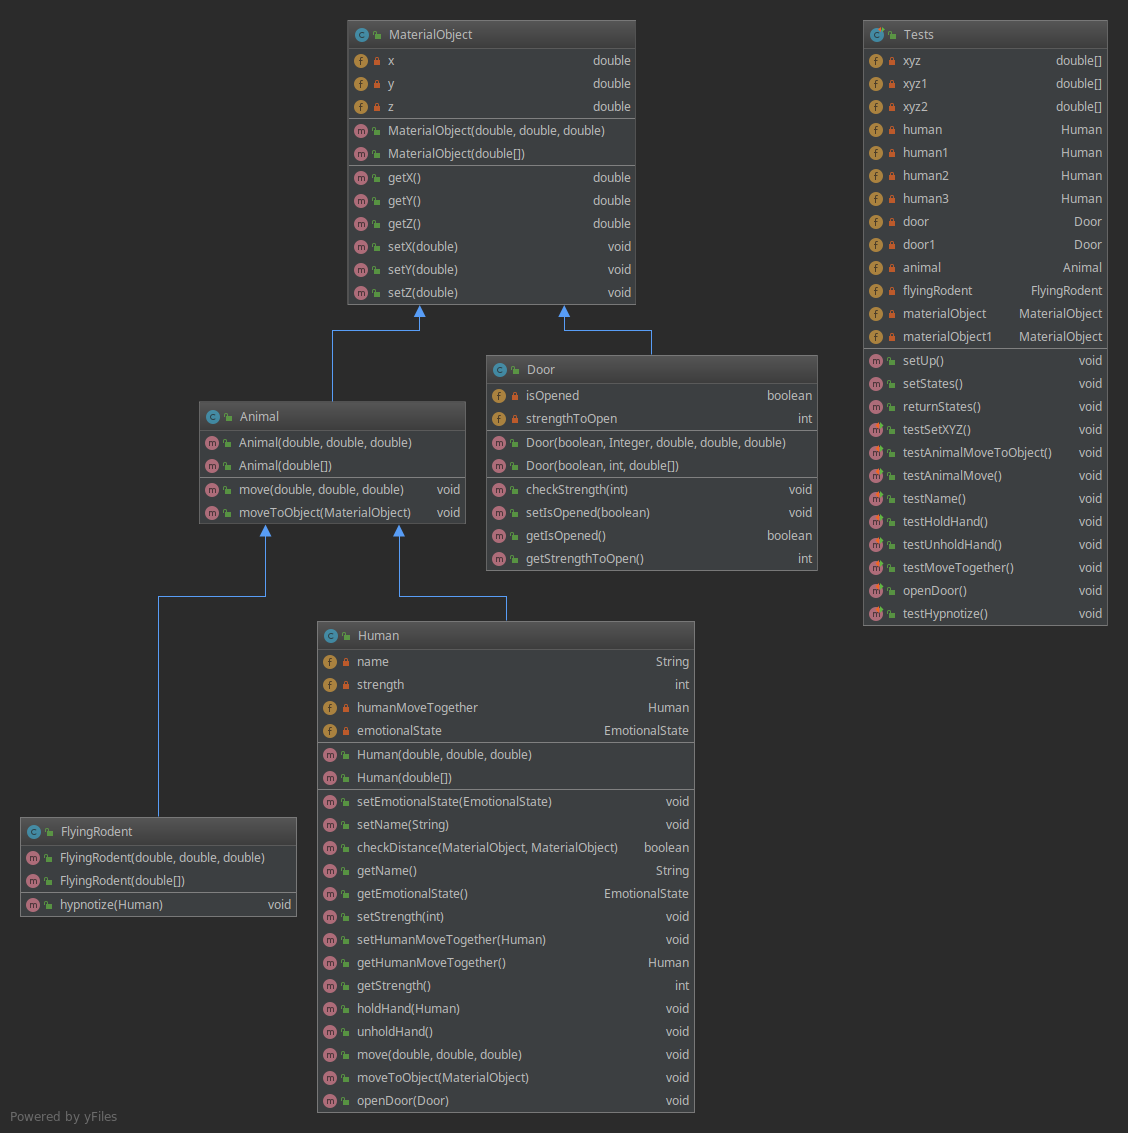
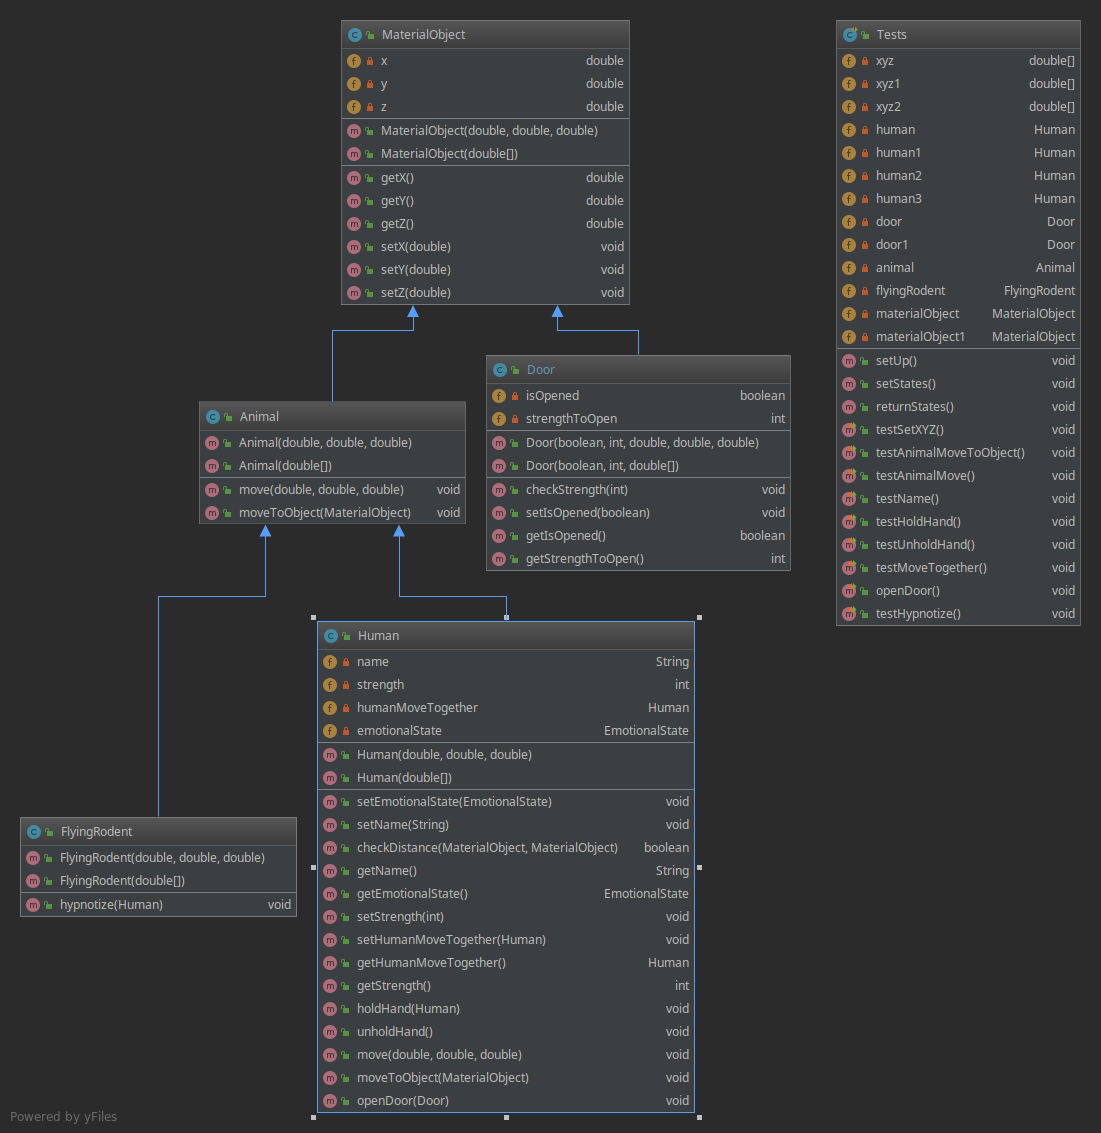
New Diagram, Integer to int in Door

diff --git a/Task3/src/Door.java b/Task3/src/Door.java
@@ -21,7 +21,7 @@ public class Door extends MaterialObject {
         return this.strengthToOpen;
     }
 
-    public Door(boolean isOpened, Integer strengthToOpen, double x, double y, double z){
+    public Door(boolean isOpened, int strengthToOpen, double x, double y, double z){
         super(x,y,z);
         this.isOpened=isOpened;
         checkStrength(strengthToOpen);
